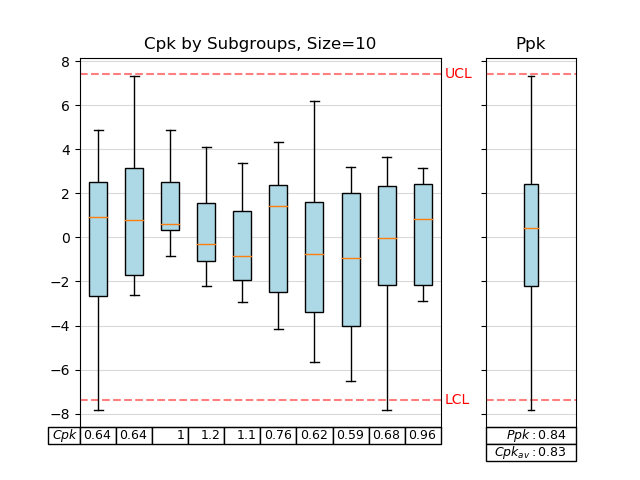
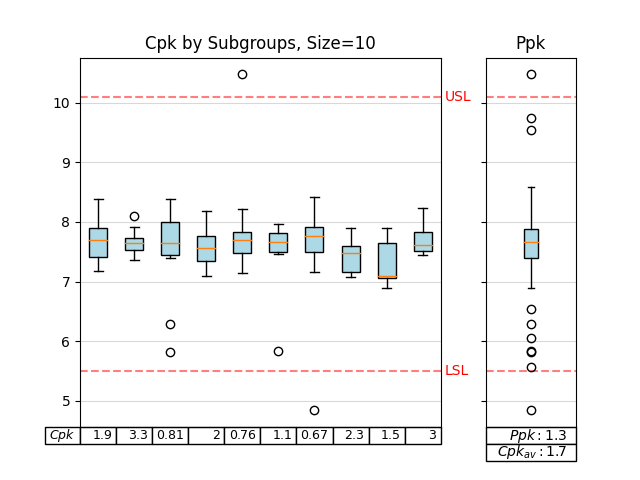
Update documentation

diff --git a/manufacturing/visual.py b/manufacturing/visual.py
@@ -161,22 +161,22 @@ def ppk_plot(
 
 def cpk_plot(
     data: (List[int], List[float], pd.Series, np.array),
-    upper_control_limit: (int, float),
-    lower_control_limit: (int, float),
+    upper_specification_limit: (int, float),
+    lower_specification_limit: (int, float),
     subgroup_size: int = 30,
     max_subgroups: int = 10,
-    axs: Optional[List[Axis]] = None,
-) -> List[Axis]:
+    figure: Optional[Figure] = None,
+) -> Figure:
     """
     Boxplot the Cpk in subgroups os size `subgroup_size`.
 
-    :param data: a list, pandas.Series, or numpy.array representing the data set
-    :param upper_control_limit: an integer or float which represents the upper control limit, commonly called the UCL
-    :param lower_control_limit: an integer or float which represents the upper control limit, commonly called the UCL
+    :param data: a list, pandas.Series, or ``numpy.array`` representing the data set
+    :param upper_specification_limit: an integer or float which represents the upper specification limit, commonly called the USL
+    :param lower_specification_limit: an integer or float which represents the upper specification limit, commonly called the LSL
     :param subgroup_size: the number of samples to include in each subgroup
     :param max_subgroups: the maximum number of subgroups to display
-    :param axs: two instances of matplotlib.axis.Axis
-    :return: None
+    :param figure: two instances of matplotlib.axis.Axis
+    :return: an instance of ``matplotlib.figure.Figure``
     """
 
     def chunk(seq, size):
@@ -194,10 +194,13 @@ def cpk_plot(
 
     data_subgroups = data_subgroups[::-1]
 
-    if axs is None:
+    if figure is None:
         fig, axs = plt.subplots(
             1, 2, sharey="all", gridspec_kw={"width_ratios": [4, 1]}
         )
+    else:
+        axs = figure.axes
+        fig = figure
 
     ax0, ax1, *_ = axs
 
@@ -207,8 +210,8 @@ def cpk_plot(
     p0, p1 = bp["medians"][0].get_xydata()
     x0, _ = p0
     x1, _ = p1
-    ax1.axhline(upper_control_limit, color="red", linestyle="--", zorder=-1, alpha=0.5)
-    ax1.axhline(lower_control_limit, color="red", linestyle="--", zorder=-1, alpha=0.5)
+    ax1.axhline(upper_specification_limit, color="red", linestyle="--", zorder=-1, alpha=0.5)
+    ax1.axhline(lower_specification_limit, color="red", linestyle="--", zorder=-1, alpha=0.5)
     ax1.set_xticks([])
     ax1.grid(color="grey", alpha=0.3)
     bp["boxes"][0].set_facecolor("lightblue")
@@ -216,8 +219,8 @@ def cpk_plot(
     bps = ax0.boxplot(data_subgroups, patch_artist=True)
     ax0.set_title(f"Cpk by Subgroups, Size={subgroup_size}")
     ax0.set_xticks([])
-    ax0.axhline(upper_control_limit, color="red", linestyle="--", zorder=-1, alpha=0.5)
-    ax0.axhline(lower_control_limit, color="red", linestyle="--", zorder=-1, alpha=0.5)
+    ax0.axhline(upper_specification_limit, color="red", linestyle="--", zorder=-1, alpha=0.5)
+    ax0.axhline(lower_specification_limit, color="red", linestyle="--", zorder=-1, alpha=0.5)
     ax0.grid(color="grey", alpha=0.3)
 
     for box in bps["boxes"]:
@@ -226,15 +229,15 @@ def cpk_plot(
     left, right = ax0.get_xlim()
     right_plus = (right - left) * 0.01 + right
 
-    ax0.text(right_plus, upper_control_limit, s="USL", color="red", va="center")
-    ax0.text(right_plus, lower_control_limit, s="LSL", color="red", va="center")
+    ax0.text(right_plus, upper_specification_limit, s="USL", color="red", va="center")
+    ax0.text(right_plus, lower_specification_limit, s="LSL", color="red", va="center")
 
     cpks = []
     for i, bp_median in enumerate(bps["medians"]):
         cpk = calc_ppk(
             data_subgroups[i],
-            upper_control_limit=upper_control_limit,
-            lower_control_limit=lower_control_limit,
+            upper_control_limit=upper_specification_limit,
+            lower_control_limit=lower_specification_limit,
         )
         cpks.append(cpk)
     cpks = pd.Series(cpks)
@@ -244,12 +247,12 @@ def cpk_plot(
 
     ppk = calc_ppk(
         data,
-        upper_control_limit=upper_control_limit,
-        lower_control_limit=lower_control_limit,
+        upper_control_limit=upper_specification_limit,
+        lower_control_limit=lower_specification_limit,
     )
     ax1.table([[f"$Ppk: {ppk:.02g}$"], [f"$Cpk_{{av}}:{cpks.mean():.02g}$"]])
 
-    return [ax0, ax1]
+    return fig
 
 
 def control_plot(*args, **kwargs) -> Axis:

diff --git a/manufacturing/data_import.py b/manufacturing/data_import.py
@@ -47,17 +47,17 @@ def import_csv(file_path: (str, Path), columnname: str, **kwargs):
     """
     df = pd.read_csv(file_path, **kwargs)
 
-    lcl, ucl = parse_col_for_limits(columnname)
+    lsl, usl = parse_col_for_limits(columnname)
 
-    if lcl is None and ucl is None:
+    if lsl is None and usl is None:
         return df[columnname]
     else:
         data = {"data": df[columnname]}
 
-    if lcl is not None:
-        data["lower_control_limit"] = lcl
-    if ucl is not None:
-        data["upper_control_limit"] = ucl
+    if lsl is not None:
+        data["lower_specification_limit"] = lsl
+    if usl is not None:
+        data["upper_specification_limit"] = usl
 
     return data
 
@@ -73,16 +73,16 @@ def import_excel(file_path: (str, Path), columnname, **kwargs):
     """
     df = pd.read_excel(file_path, **kwargs)
 
-    lcl, ucl = parse_col_for_limits(columnname)
+    lsl, usl = parse_col_for_limits(columnname)
 
-    if lcl is None and ucl is None:
+    if lsl is None and usl is None:
         return {"data": df[columnname]}
     else:
         data = {"data": df[columnname]}
 
-    if lcl is not None:
-        data["lower_control_limit"] = lcl
-    if ucl is not None:
-        data["upper_control_limit"] = ucl
+    if lsl is not None:
+        data["lower_specification_limit"] = lsl
+    if usl is not None:
+        data["upper_specification_limit"] = usl
 
     return data

diff --git a/manufacturing/report.py b/manufacturing/report.py
@@ -89,7 +89,7 @@ def generate_production_report(
 
         # generate zpk subgroup plot
         fig, axs = plt.subplots(1, 2, sharey=True, gridspec_kw={"width_ratios": [4, 1]})
-        cpk_plot(df[c], upper_control_limit=ucl, lower_control_limit=lcl, axs=axs)
+        cpk_plot(df[c], upper_specification_limit=ucl, lower_specification_limit=lcl, axs=axs)
         plot_name = build_path / f"cpk_plot_{fig_name}.png"
         fig.savefig(plot_name)
         text += f"![Cpk Plot: {fig_name}]({plot_name.name})\n\n"

diff --git a/docs/conf.py b/docs/conf.py
@@ -19,7 +19,7 @@ sys.path.insert(0, os.path.abspath('../'))
 # -- Project information -----------------------------------------------------
 
 project = 'manufacturing'
-copyright = '2020, Jason R. Jones'
+copyright = '2022, Jason R. Jones'
 author = 'Jason R. Jones'
 
 # -- General configuration ---------------------------------------------------

diff --git a/examples/cpk_boxplot.py b/examples/cpk_boxplot.py
@@ -7,5 +7,5 @@ logging.basicConfig(level=logging.INFO)
 data = import_excel('data/example_data_with_faults.xlsx', columnname='value')
 
 cpk_plot(**data, subgroup_size=10,
-         upper_control_limit=10.1, lower_control_limit=5.5)
+         upper_specification_limit=10.1, lower_specification_limit=5.5)
 plt.show()

diff --git a/docs/plotting.rst b/docs/plotting.rst
@@ -8,8 +8,8 @@ Ppk Plot
 ---------
 
 The PPK plot takes all of the data - not just a sample - and determines the process
-capability.  This is not a snapshot in time but a look at the entire history, which
-can be deceiving.
+capability.  This is not a snapshot in time but a look at the entire history.  Careful,
+which this can be can be deceiving!
 
 The ``manufacturing.ppk_plot`` will estimate the distribution based on the input
 data, calculate the Ppk, mean, standard deviation, and the estimated % out of control
@@ -22,13 +22,13 @@ to be non-normally distributed.
 
     # the 'data' variable contains a list of integers, floats,
     # numpy array, or pandas Series
-    mn.ppk_plot(data, upper_control_limit=3.3, lower_control_limit=3.1)
+    mn.ppk_plot(data, upper_specification_limit=3.3, lower_specification_limit=3.1)
 
 .. image:: _static/images/ppk_plot.png
 
 If ``manufacturing`` is used in a jupyter notebook or similar environment, then
 the plot will display automatically.  Optionally, you can pass a ``matplotlib.axes.Axes``
-instance in order to take better advantage of matplotlib features.
+instance in order to more directly manipulate the underlying ``matplotlib.axes.Axes``.
 
 .. code-block:: python
 
@@ -37,8 +37,8 @@ instance in order to take better advantage of matplotlib features.
 
     fig, ax = plt.subplots()
     mn.ppk_plot(data,
-                upper_control_limit=3.3,
-                lower_control_limit=3.1,
+                upper_specification_limit=3.3,
+                lower_specification_limit=3.1,
                 ax=ax)
 
     ax.set_xlim(3.0, 3.5)  # manipulate the axis as desired
@@ -57,8 +57,8 @@ not be in control.
     # the 'data' variable contains a list of integers, floats,
     # numpy array, or pandas Series
     mn.cpk_plot(data,
-                upper_control_limit=7.4,
-                lower_control_limit=-7.4,
+                upper_specification_limit=7.4,
+                lower_specification_limit=-7.4,
                 subgroup_size=10)
 
 .. image:: _static/images/cpk_plot.png
@@ -68,18 +68,17 @@ Zone Control Chart
 
 Perhaps the most useful chart is the ``manufacturing.control_plot``, also known as a
 Zone Control Plot.  This plot will highlight up to 8 different rules or violations
-based on the input data set.  If a control cart rule is not violated, then it will
+based on the input data set.  If a control chart rule is not violated, then it will
 not be placed on the chart.
 
-.. code-block:: python
+There are three different types of ``control charts`` defined within ``manufacturing``:
 
-    import manufacturing as mn
+ * ``x_mr_chart()`` for small data sets
+ * ``xbar_r_chart()`` for subgroups between 2 and 10, inclusive
+ * ``xbar_s_chart()`` for subgroups larger than 11, inclusive
 
-    # the 'data' variable contains a list of integers, floats,
-    # numpy array, or pandas Series
-    mn.control_plot(data, upper_control_limit=3.3, lower_control_limit=3.1)
-
-.. image:: _static/images/control_plot.png
+Using the ``control_plot`` function will automatically select the appropriate
+control chart type based on the number of data points supplied.
 
 .. list-table:: Control Chart Rules by Severity
    :header-rows: 1
@@ -102,3 +101,23 @@ not be placed on the chart.
     - 15 consecutive points in zone c
   * - over-control
     - 14 consecutive points alternating up and down
+
+.. code-block:: python
+
+    import manufacturing as mn
+
+    # the 'data' variable contains a list of integers, floats,
+    # numpy array, or pandas Series
+    mn.control_plot(data)
+
+Depending on the data set, the above command could result in the creation of an
+:math:`X-mR` chart, :math:`\bar{X}-R` chart, or :math:`\bar{X}-S` chart.
+
+.. image:: _static/images/xmr_chart.png
+
+.. image:: _static/images/xbarr_chart.png
+
+.. image:: _static/images/xbars_chart.png
+
+
+

diff --git a/docs/importing_and_exporting.rst b/docs/importing_and_exporting.rst
@@ -45,8 +45,9 @@ In this case, the ``data`` contains a dictionary with keys ``data``, ``upper_con
 ``lower_control_limit``.  These keys are utilized throughout the library analysis and plotting tools, which is
 why they are imported directly here.
 
-.. automodule:: manufacturing
-   :members: import_csv
+.. currentmodule:: manufacturing
+.. autofunction:: import_csv
+  :noindex:
 
 Importing from MS Excel
 -----------------------
@@ -81,5 +82,6 @@ In this case, the ``data`` contains a dictionary with keys ``data``, ``upper_con
 ``lower_control_limit``.  These keys are utilized throughout the library analysis and plotting tools, which is
 why they are imported directly here.
 
-.. automodule:: manufacturing
-   :members: import_excel
+.. currentmodule:: manufacturing
+.. autofunction:: import_excel
+  :noindex:
